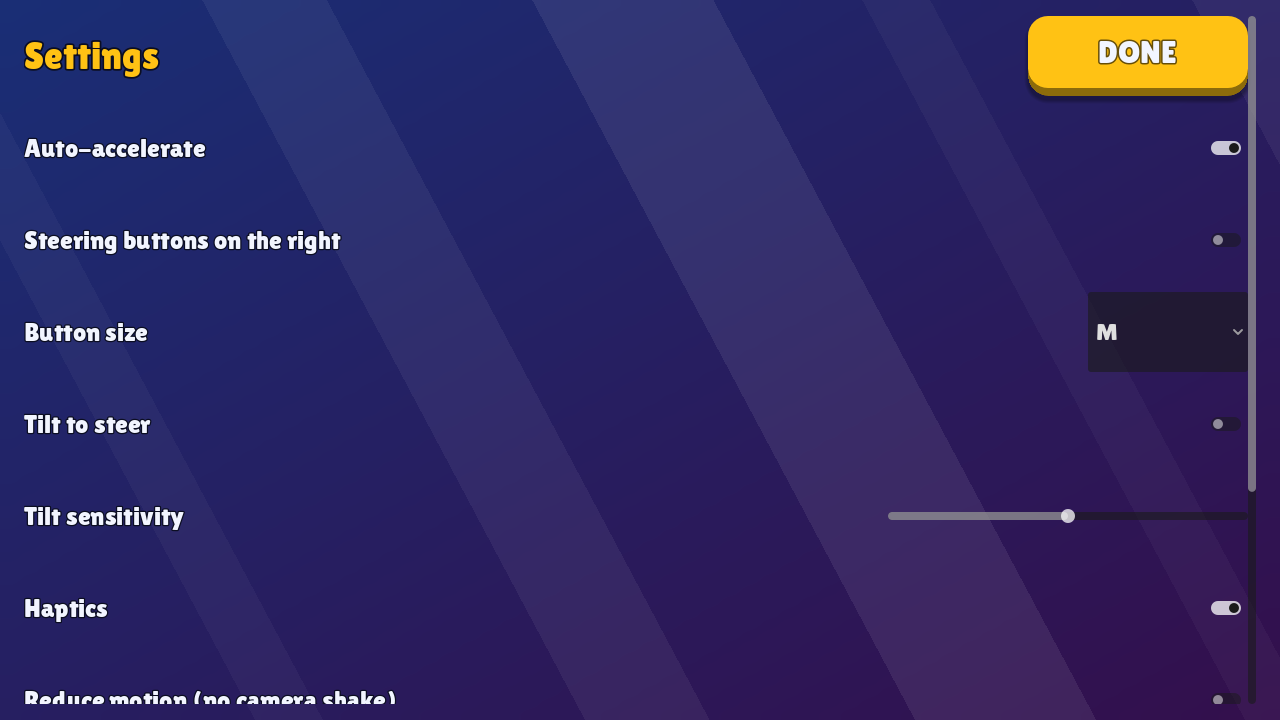
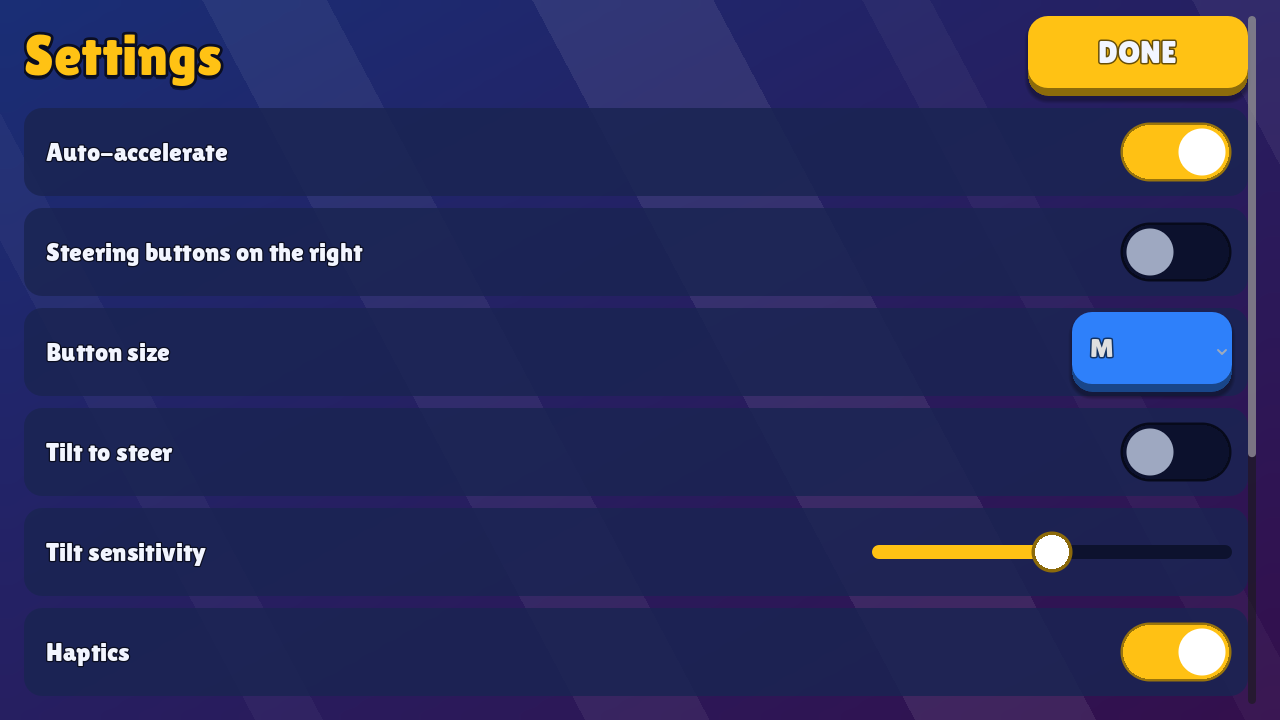
A2: Settings — game-style switches, sliders and row cards

diff --git a/docs/PROGRESS.md b/docs/PROGRESS.md
@@ -222,4 +222,5 @@ animated buttons and transitions, 3D car showroom on Home/Select, juicy countdow
 - [x] `Ui.gd`: chunky lip buttons (yellow primary / blue secondary), outlined text, bordered
       panels and inputs, gradient + speed-stripe backgrounds on all screens, squash-on-press and
       pop-in animations. Screens: `docs/screenshots/a2_*.png`.
-- [ ] Settings toggles/rows, 3D car showroom (Home + Select), juicy countdown/results, human approval.
+- [x] Settings: chunky code-drawn switches, yellow sliders, rows on cards, styled dropdown.
+- [ ] 3D car showroom (Home + Select), juicy countdown/results, human approval.
